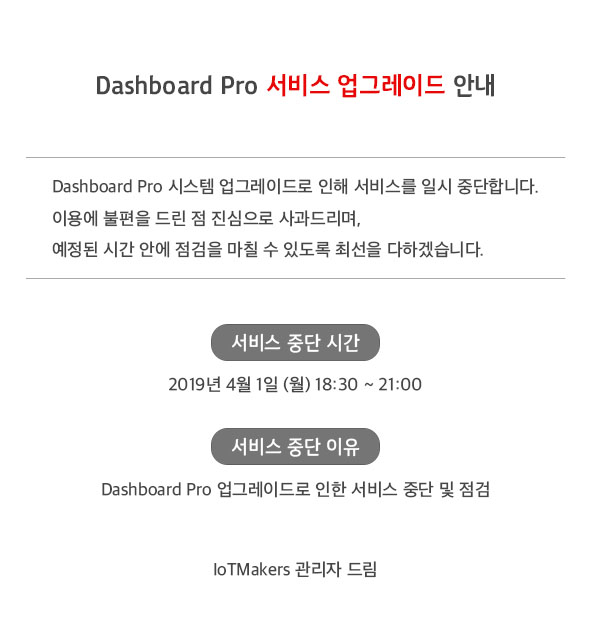
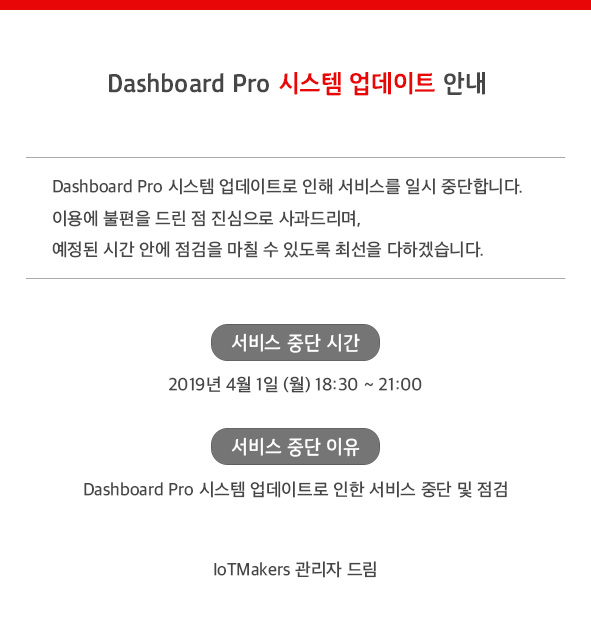
- 대시보드 작업공지 수정

diff --git a/construction.html b/construction.html
@@ -1,0 +1,19 @@
+<!DOCTYPE html>
+<html>
+<head>
+    <meta charset="utf-8">
+    <meta name="viewport" content="width=device-width, initial-scale=1.0">
+    <meta http-equiv="X-UA-Compatible" content="IE=edge,chrome=1">
+    <title>IoTMakers</title>
+<style>
+body{background-image:url('/assets/image/home_con3.jpg');background-size:100%;}
+body .cnstWrap{text-align:center;}
+body .cnstWrap img{position:absolute;transform:translate(-50%,20%);}
+</style>
+</head>
+<body>
+	<div class="cnstWrap">
+		<img src="/assets/image/construction_20190306.jpg">
+	</div>
+</body>
+</html>
